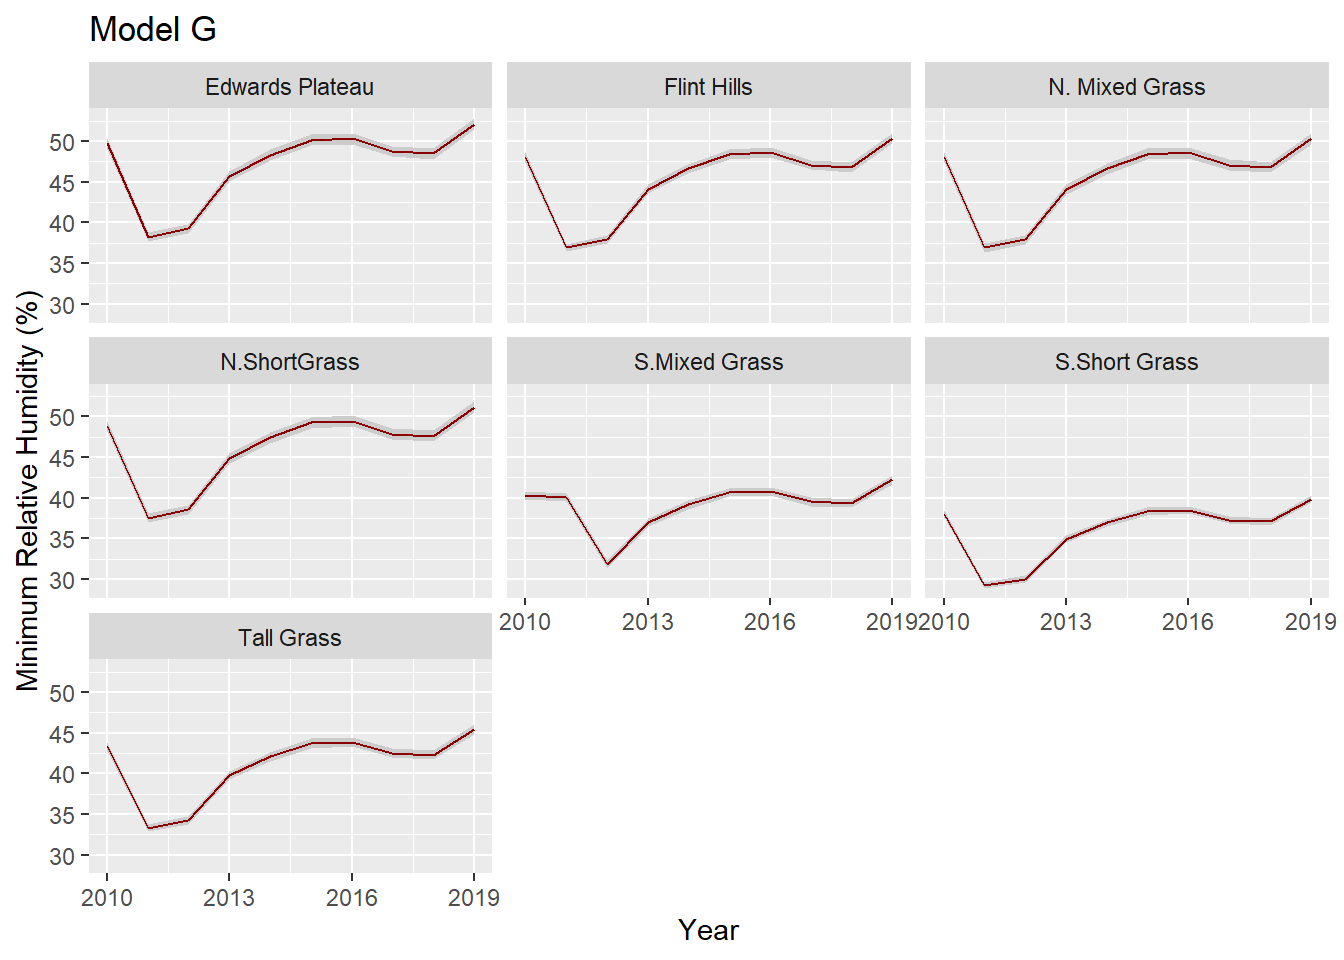
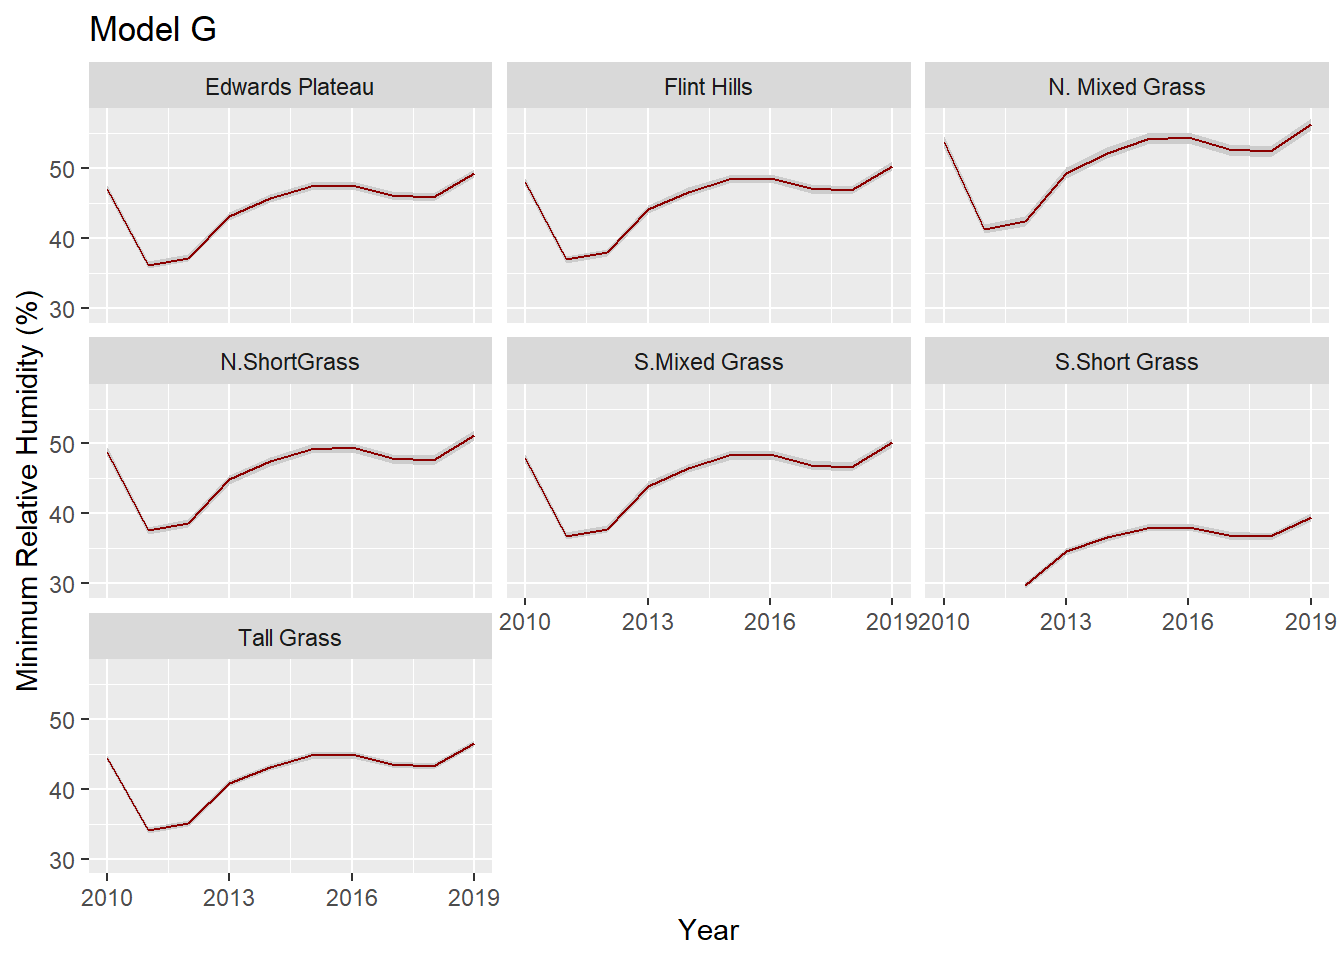
HGAM lab
fix "A"

diff --git a/06-A-Hierarchical-Generalized-Additive-Models.html b/06-A-Hierarchical-Generalized-Additive-Models.html
@@ -653,9 +653,8 @@ Caleb if you have more questions.</p>
 <span id="cb7-13"><a href="#cb7-13" tabindex="-1"></a><span class="co"># gam.check(rh_modG)</span></span>
 <span id="cb7-14"><a href="#cb7-14" tabindex="-1"></a><span class="co"># gratia::appraise(rh_modG)</span></span>
 <span id="cb7-15"><a href="#cb7-15" tabindex="-1"></a></span>
-<span id="cb7-16"><a href="#cb7-16" tabindex="-1"></a><span class="co"># Use gratia::draw to show effects</span></span>
-<span id="cb7-17"><a href="#cb7-17" tabindex="-1"></a>gratia<span class="sc">::</span><span class="fu">draw</span>(rh_modG)</span></code></pre></div>
-<p><img src="06-A-Hierarchical-Generalized-Additive-Models_files/figure-html/unnamed-chunk-4-1.png" width="672" /></p>
+<span id="cb7-16"><a href="#cb7-16" tabindex="-1"></a><span class="co"># # Use gratia::draw to show effects</span></span>
+<span id="cb7-17"><a href="#cb7-17" tabindex="-1"></a><span class="co"># gratia::draw(rh_modG)</span></span></code></pre></div>
 <p>Okay, so the model isn’t the greatest for a few reasons (can you list
 some?). However, for fun–and so we can see how “random intercepts” work
 with HGAMs–let’s plot some predictions. We’ll also do a quick comparison
@@ -866,8 +865,8 @@ HGAMs:</p>
 <span id="cb15-35"><a href="#cb15-35" tabindex="-1"></a>           <span class="at">MAE =</span> <span class="fu">c</span>(<span class="fu">mae</span>(rh_modG_train, test_df), </span>
 <span id="cb15-36"><a href="#cb15-36" tabindex="-1"></a>                    <span class="fu">mae</span>(rh_modGS_train, test_df)))</span></code></pre></div>
 <pre><code>##   Model     RMSE      MAE
-## 1     G 44.02154 40.65895
-## 2    GS 44.02296 40.66644</code></pre>
+## 1     G 44.04650 40.69396
+## 2    GS 44.04055 40.69077</code></pre>
 <p>Oof! Looks like both our (quick and dirty) cross-validation tests
 show the models have negligible differences in predictive ability. Just
 goes to show that we need to assess models from multiple angles.</p>
